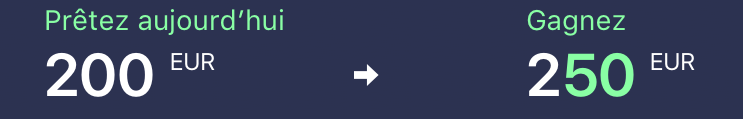
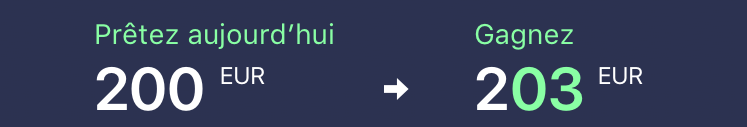
interest rate

diff --git a/app/templates/lending2.html b/app/templates/lending2.html
@@ -19,6 +19,9 @@
       <img width="100%" src="./assets/img/lending_process2-btm.png" />
       <a class="link" onClick="c()" style="top: 89%;left: 0;width: 100%;height: 10%;"></a>
     </div>
+    <div class="taux">
+      <img src="./assets/img/taux.png" />
+    </div>
     <div class="overlay" id="ov">
       <img src="./assets/img/check.gif" id='im' class="check" />
     </div>

diff --git a/assets/style.css b/assets/style.css
@@ -85,3 +85,24 @@ a.lend {
   left: 25%;
   width: 50%;
 }
+
+.taux {
+  z-index: 2;
+  display: block;
+  top: 0;
+  left: 0;
+  right: 0;
+  height: 100%;
+  width: 100vw;
+  max-width: 400px;
+  margin-left: auto;
+  margin-right: auto;
+  position: absolute;
+}
+
+.taux img {
+    position: relative;
+    top: 45%;
+    width: 20%;
+    left: 80%;
+}
